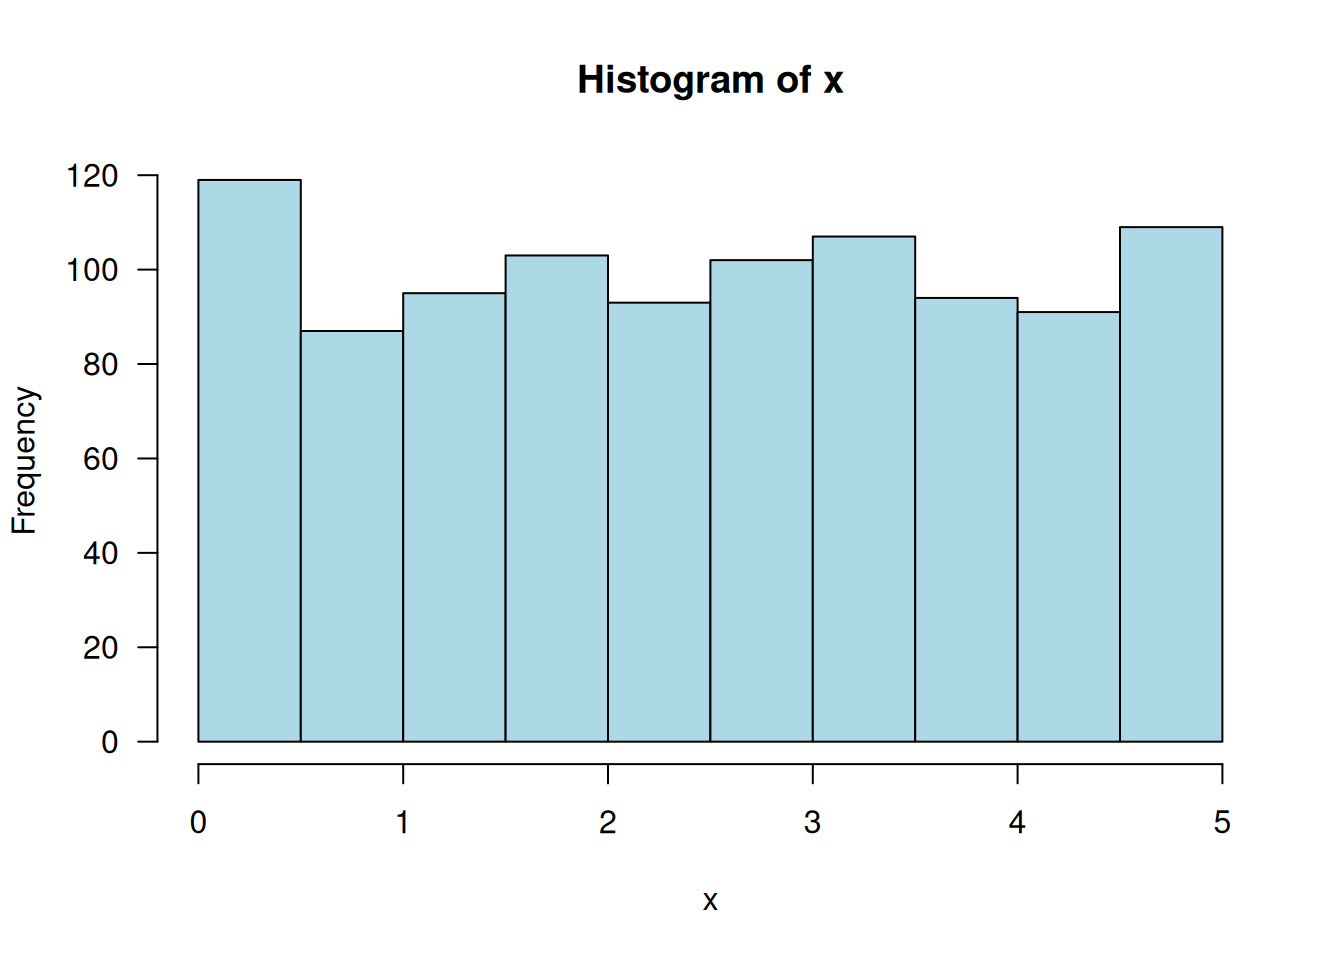
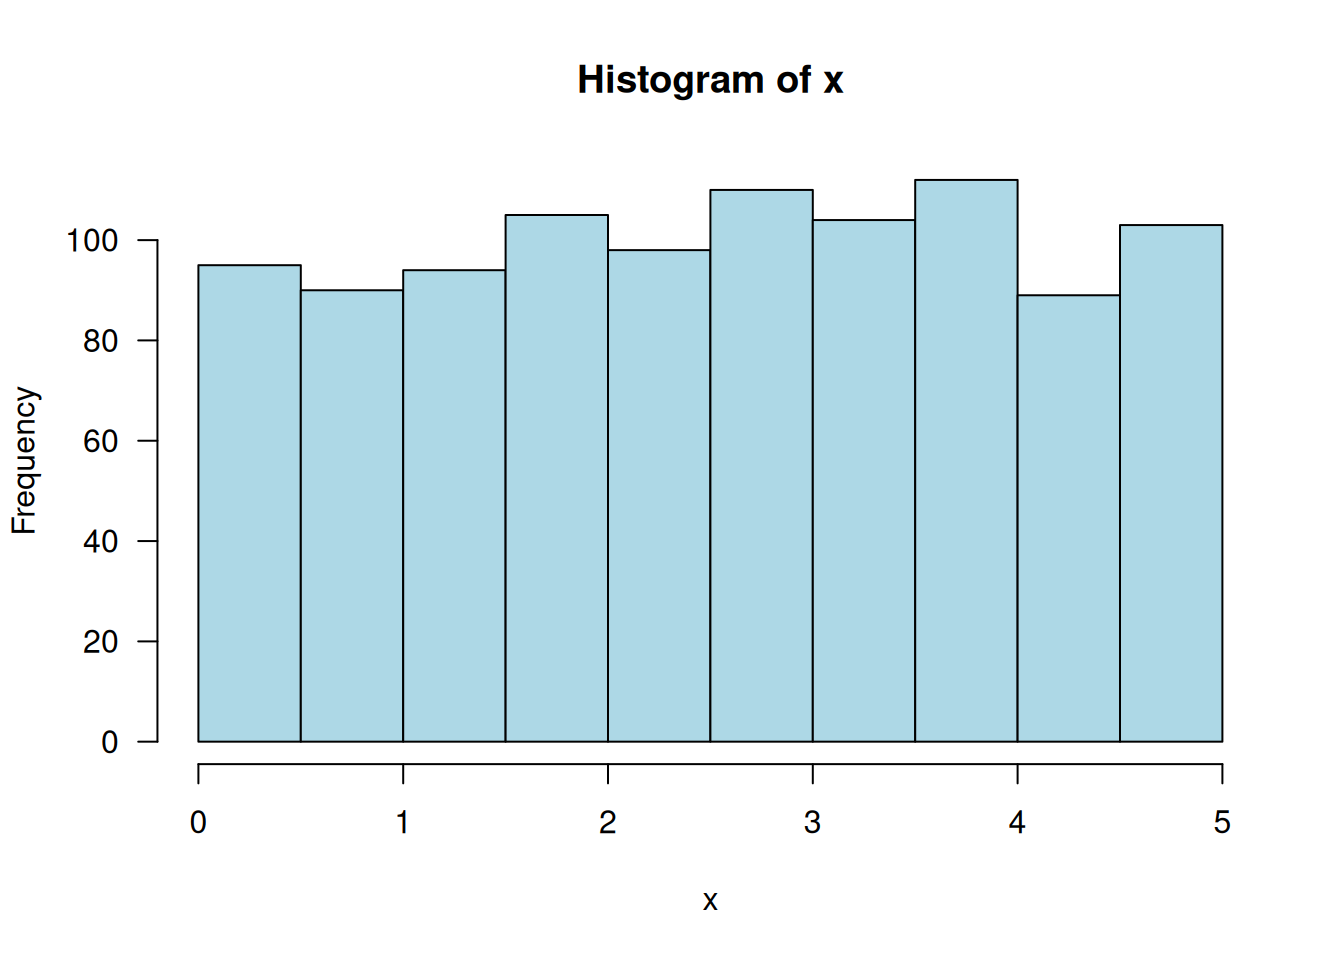
Deploying to gh-pages from @ jtr13/1201@27c00783281beeae9a249a723f541ba4aadf58e9 🚀

diff --git a/ch.-4-continuous-random-variables-and-probability-distributions.html b/ch.-4-continuous-random-variables-and-probability-distributions.html
@@ -82,12 +82,12 @@
 <p><span class="math inline">\(f(x) = .2\)</span> for <span class="math inline">\(0 \leq x \leq 5\)</span>, 0 otherwise.</p>
 <div class="sourceCode" id="cb161"><pre class="downlit sourceCode r">
 <code class="sourceCode R"><span><span class="fu"><a href="https://rdrr.io/r/stats/Uniform.html">runif</a></span><span class="op">(</span>n <span class="op">=</span> <span class="fl">1</span>, min <span class="op">=</span> <span class="fl">0</span>, max <span class="op">=</span> <span class="fl">5</span><span class="op">)</span></span></code></pre></div>
-<pre><code>## [1] 2.075844</code></pre>
+<pre><code>## [1] 4.256449</code></pre>
 <p>Take the average of 1000 picks:</p>
 <div class="sourceCode" id="cb163"><pre class="downlit sourceCode r">
 <code class="sourceCode R"><span><span class="va">x</span> <span class="op">&lt;-</span> <span class="fu"><a href="https://rdrr.io/r/stats/Uniform.html">runif</a></span><span class="op">(</span>n <span class="op">=</span> <span class="fl">1000</span>, min <span class="op">=</span> <span class="fl">0</span>, max <span class="op">=</span> <span class="fl">5</span><span class="op">)</span></span>
 <span><span class="fu"><a href="https://rdrr.io/r/base/mean.html">mean</a></span><span class="op">(</span><span class="va">x</span><span class="op">)</span></span></code></pre></div>
-<pre><code>## [1] 2.489078</code></pre>
+<pre><code>## [1] 2.539618</code></pre>
 <p>Draw a histogram of the 1000 picks:</p>
 <div class="sourceCode" id="cb165"><pre class="downlit sourceCode r">
 <code class="sourceCode R"><span><span class="fu"><a href="https://rdrr.io/r/graphics/hist.html">hist</a></span><span class="op">(</span><span class="va">x</span>, las <span class="op">=</span> <span class="fl">1</span>, col <span class="op">=</span> <span class="st">"lightblue"</span><span class="op">)</span></span></code></pre></div>
@@ -270,7 +270,7 @@ aid, sothat <em>p = .25</em>. What is the probability that at most 10 students r
 <footer class="bg-primary text-light mt-5"><div class="container"><div class="row">
 
   <div class="col-12 col-md-6 mt-3">
-    <p>"<strong>Stat 1201 Resources</strong>" was written by Joyce Robbins. It was last built on 2026-05-06.</p>
+    <p>"<strong>Stat 1201 Resources</strong>" was written by Joyce Robbins. It was last built on 2026-05-11.</p>
   </div>
 
   <div class="col-12 col-md-6 mt-3">

diff --git a/ch.-7-statistical-intervals-based-on-a-single-sample.html b/ch.-7-statistical-intervals-based-on-a-single-sample.html
@@ -87,7 +87,7 @@
 <h2>7.3 Intervals Based on a Normal Population Distribution<a class="anchor" aria-label="anchor" href="#intervals-based-on-a-normal-population-distribution"><i class="fas fa-link"></i></a>
 </h2>
 <p>Use the <span class="math inline">\(t\)</span> distributions.</p>
-<p>Skip “A Prediction Interval for a Single Future Value” p. 299 to the end of the section.</p>
+<p>Skip “Tolerance Intervals” p. 300 to the end of the section.</p>
 
 </div>
 </div>
@@ -118,7 +118,7 @@
 <footer class="bg-primary text-light mt-5"><div class="container"><div class="row">
 
   <div class="col-12 col-md-6 mt-3">
-    <p>"<strong>Stat 1201 Resources</strong>" was written by Joyce Robbins. It was last built on 2026-05-06.</p>
+    <p>"<strong>Stat 1201 Resources</strong>" was written by Joyce Robbins. It was last built on 2026-05-11.</p>
   </div>
 
   <div class="col-12 col-md-6 mt-3">

diff --git a/404.html b/404.html
@@ -85,7 +85,7 @@ the table of contents to find the page you are looking for.</p>
 <footer class="bg-primary text-light mt-5"><div class="container"><div class="row">
 
   <div class="col-12 col-md-6 mt-3">
-    <p>"<strong>Stat 1201 Resources</strong>" was written by Joyce Robbins. It was last built on 2026-05-06.</p>
+    <p>"<strong>Stat 1201 Resources</strong>" was written by Joyce Robbins. It was last built on 2026-05-11.</p>
   </div>
 
   <div class="col-12 col-md-6 mt-3">

diff --git a/ch.-1-descriptive-statistics.html b/ch.-1-descriptive-statistics.html
@@ -350,7 +350,7 @@
 <footer class="bg-primary text-light mt-5"><div class="container"><div class="row">
 
   <div class="col-12 col-md-6 mt-3">
-    <p>"<strong>Stat 1201 Resources</strong>" was written by Joyce Robbins. It was last built on 2026-05-06.</p>
+    <p>"<strong>Stat 1201 Resources</strong>" was written by Joyce Robbins. It was last built on 2026-05-11.</p>
   </div>
 
   <div class="col-12 col-md-6 mt-3">

diff --git a/ch.-12-linear-regression.html b/ch.-12-linear-regression.html
@@ -217,7 +217,7 @@
 <footer class="bg-primary text-light mt-5"><div class="container"><div class="row">
 
   <div class="col-12 col-md-6 mt-3">
-    <p>"<strong>Stat 1201 Resources</strong>" was written by Joyce Robbins. It was last built on 2026-05-06.</p>
+    <p>"<strong>Stat 1201 Resources</strong>" was written by Joyce Robbins. It was last built on 2026-05-11.</p>
   </div>
 
   <div class="col-12 col-md-6 mt-3">

diff --git a/ch.-13-nonlinear-and-multiple-regression.html b/ch.-13-nonlinear-and-multiple-regression.html
@@ -105,7 +105,7 @@
 <footer class="bg-primary text-light mt-5"><div class="container"><div class="row">
 
   <div class="col-12 col-md-6 mt-3">
-    <p>"<strong>Stat 1201 Resources</strong>" was written by Joyce Robbins. It was last built on 2026-05-06.</p>
+    <p>"<strong>Stat 1201 Resources</strong>" was written by Joyce Robbins. It was last built on 2026-05-11.</p>
   </div>
 
   <div class="col-12 col-md-6 mt-3">

diff --git a/ch.-14-chi-squared-test.html b/ch.-14-chi-squared-test.html
@@ -117,7 +117,7 @@
 <footer class="bg-primary text-light mt-5"><div class="container"><div class="row">
 
   <div class="col-12 col-md-6 mt-3">
-    <p>"<strong>Stat 1201 Resources</strong>" was written by Joyce Robbins. It was last built on 2026-05-06.</p>
+    <p>"<strong>Stat 1201 Resources</strong>" was written by Joyce Robbins. It was last built on 2026-05-11.</p>
   </div>
 
   <div class="col-12 col-md-6 mt-3">

diff --git a/ch.-2-conditional-probability.html b/ch.-2-conditional-probability.html
@@ -107,7 +107,7 @@
 <footer class="bg-primary text-light mt-5"><div class="container"><div class="row">
 
   <div class="col-12 col-md-6 mt-3">
-    <p>"<strong>Stat 1201 Resources</strong>" was written by Joyce Robbins. It was last built on 2026-05-06.</p>
+    <p>"<strong>Stat 1201 Resources</strong>" was written by Joyce Robbins. It was last built on 2026-05-11.</p>
   </div>
 
   <div class="col-12 col-md-6 mt-3">

diff --git a/ch.-2-probability.html b/ch.-2-probability.html
@@ -153,7 +153,7 @@
 <footer class="bg-primary text-light mt-5"><div class="container"><div class="row">
 
   <div class="col-12 col-md-6 mt-3">
-    <p>"<strong>Stat 1201 Resources</strong>" was written by Joyce Robbins. It was last built on 2026-05-06.</p>
+    <p>"<strong>Stat 1201 Resources</strong>" was written by Joyce Robbins. It was last built on 2026-05-11.</p>
   </div>
 
   <div class="col-12 col-md-6 mt-3">

diff --git a/ch.-3-discrete-distributions.html b/ch.-3-discrete-distributions.html
@@ -365,7 +365,7 @@
 <footer class="bg-primary text-light mt-5"><div class="container"><div class="row">
 
   <div class="col-12 col-md-6 mt-3">
-    <p>"<strong>Stat 1201 Resources</strong>" was written by Joyce Robbins. It was last built on 2026-05-06.</p>
+    <p>"<strong>Stat 1201 Resources</strong>" was written by Joyce Robbins. It was last built on 2026-05-11.</p>
   </div>
 
   <div class="col-12 col-md-6 mt-3">

diff --git a/ch.-5-joint-probability.html b/ch.-5-joint-probability.html
@@ -148,7 +148,7 @@ Two points are needed to calculate r.
 <footer class="bg-primary text-light mt-5"><div class="container"><div class="row">
 
   <div class="col-12 col-md-6 mt-3">
-    <p>"<strong>Stat 1201 Resources</strong>" was written by Joyce Robbins. It was last built on 2026-05-06.</p>
+    <p>"<strong>Stat 1201 Resources</strong>" was written by Joyce Robbins. It was last built on 2026-05-11.</p>
   </div>
 
   <div class="col-12 col-md-6 mt-3">

diff --git a/ch.-5-random-samples.html b/ch.-5-random-samples.html
@@ -108,7 +108,7 @@
 <footer class="bg-primary text-light mt-5"><div class="container"><div class="row">
 
   <div class="col-12 col-md-6 mt-3">
-    <p>"<strong>Stat 1201 Resources</strong>" was written by Joyce Robbins. It was last built on 2026-05-06.</p>
+    <p>"<strong>Stat 1201 Resources</strong>" was written by Joyce Robbins. It was last built on 2026-05-11.</p>
   </div>
 
   <div class="col-12 col-md-6 mt-3">